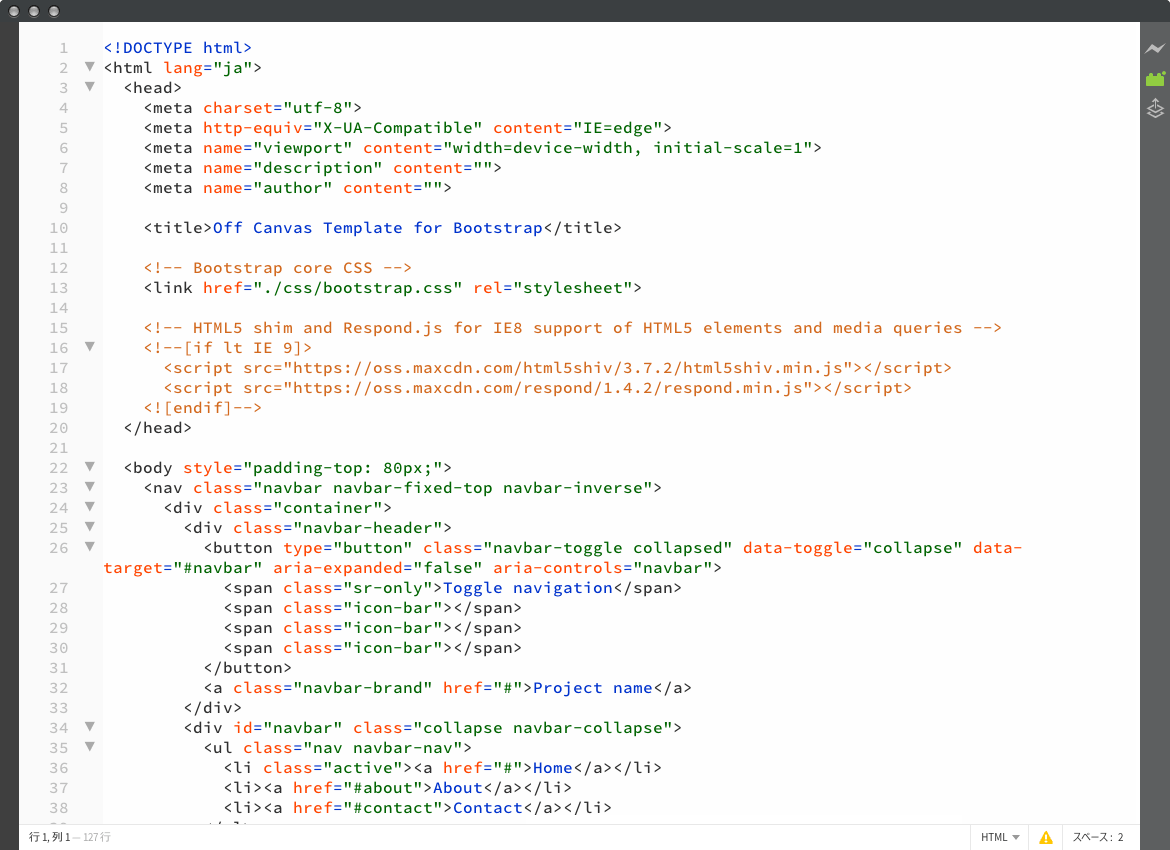
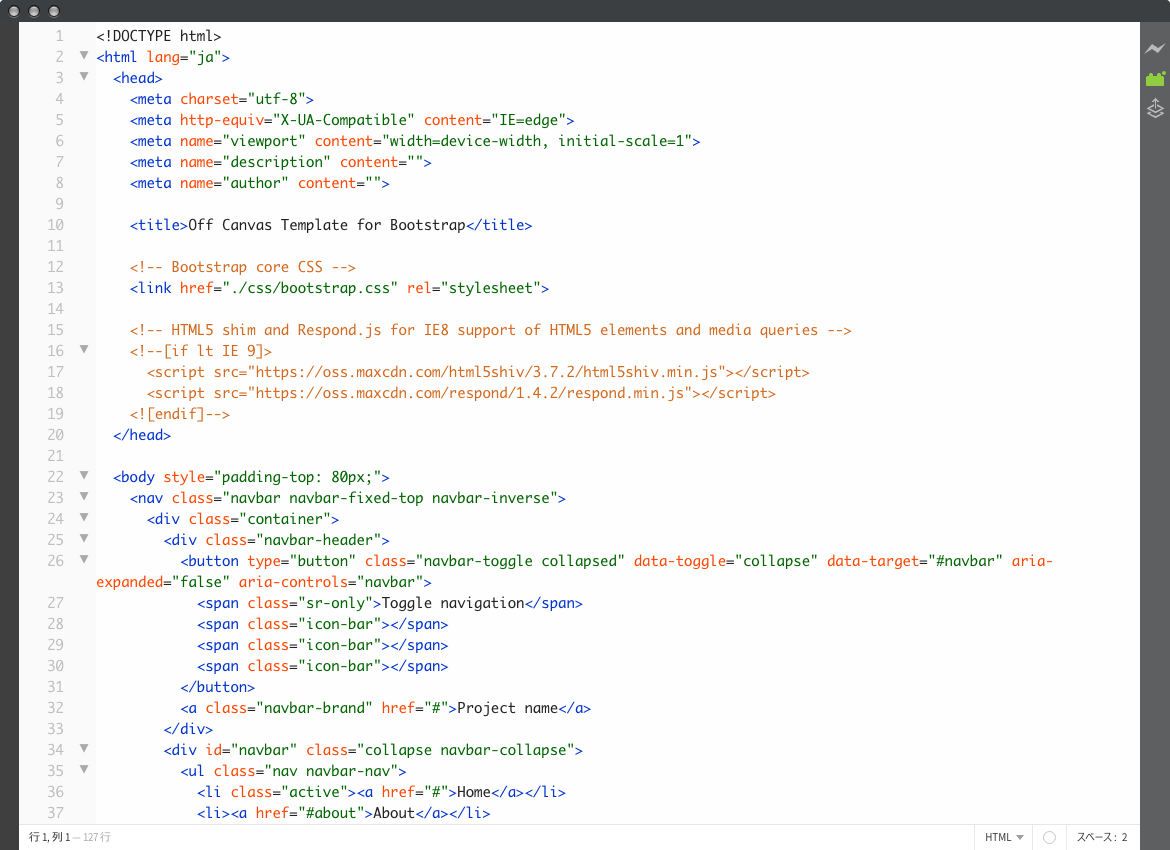
Brackets Theme Simple

diff --git a/theme.less b/theme.less
@@ -3,151 +3,170 @@
 // Copyright (c) 2015 Mignon Style
 // https://github.com/mignonstyle/brackets-theme-simple
 
-
 /* Define some variables used in multiple places */
 
 @background: #fefefe;
-@foreground: #0033cc;
-
-@comment:    #d2691e;
-
-@lemon:      #ffff62;
-@yellowC:    #ffd700;
-@apricot:    #f6a644;
-@orangeC:    #ff4500;
-@carrot:     #ff6600;
-@brownC:     #d2691e;
-@redC:       #dc322f;
-@pinkC:      #ff1493;
-@purpleC:    #b77fdb;
-@blueC:      #6c71c4;
-@greenC:     #006400;
-@aquaC:      #afeeee;
-@skyblueC:   #e0ffff;
-@white:      #fff;
-@ltgrey:     #cfcfcf;
-@greyC:      #767676;
-@dkgrey:     #2f2f2f;
-@black:      #000;
-
+@foreground: #212121;
 
 /* Code Styling */
+.CodeMirror {
+	line-height: 1.5;
+}
 
 .CodeMirror, .CodeMirror-scroll {
-  background-color: @background;
-  color: @foreground;
+	background-color: @background;
+	color: @foreground;
 }
 
 .CodeMirror-focused .CodeMirror-activeline-background {
-  background: @skyblueC;
+	background: #e0ffff;
 }
 
 .show-line-padding .CodeMirror-focused .CodeMirror-activeline-background {
-  box-shadow: inset 15px 0 0 0 @black;
+	box-shadow: inset 15px 0 0 0 #000;
 }
 
 .CodeMirror-focused .CodeMirror-activeline {
-  .CodeMirror-gutter-elt {
-    background: rgba(0, 0, 0, 0.2);
-    color: @white;
-  }
-  .inline-widget .CodeMirror-gutter-elt {
-    color: @greyC;
-  }
+	.CodeMirror-gutter-elt {
+		background: rgba(0, 0, 0, 0.2);
+		color: #fff;
+	}
+	.inline-widget .CodeMirror-gutter-elt {
+		color: #767676;
+	}
 }
 
-.cm-atom, .cm-string, .cm-string-2, .cm-hr {color: @greenC;}
-.cm-number, .cm-attribute, .cm-plus {color: @orangeC;}
-.cm-def, .cm-property {color: @pinkC;}
-.cm-variable, .cm-variable-2, .cm-variable-3, .cm-operator, .cm-meta, .cm-bracket {color: @foreground;}
-.cm-comment {color: @comment;}
-.cm-error, .cm-minus {color: @redC;}
-.cm-header {color: @carrot;}
-.cm-link {color: @purpleC; text-decoration: none;}
-.cm-rangeinfo {color: @blueC;}
-.cm-keyword, .cm-qualifier, .cm-builtin, .cm-tag, .cm-quote {color: @dkgrey;}
+// Comments
+.cm-comment {color: #d2691e;}
 
+// Function names and property values and Quotes
+.cm-atom,
+.cm-string,
+.cm-string-2,
+.cm-hr {color: #006400;}
+
+// Numbers
+.cm-number {color: #ff0000}
+
+// HTML attributes (id, class)
+.cm-attribute,
+.cm-plus {color: #ff4500;}
+
+// @include and CSS Properties
+.cm-def,
+.cm-property {color: #ff1493;}
+
+// Functions and variables and pseudo class of CSS
+.cm-variable,
+.cm-variable-2,
+.cm-variable-3 {color: #0070b5;}
+
+// operator and meta
+// 1.operator of JavaScript
+// 2.PHP start tag (meta)
+// 3.Document Type Definition (bracket)
+.cm-operator,
+.cm-meta,
+.cm-bracket {color: @foreground;}
+
+.cm-error, .cm-minus {color: #dc322f;}
+.cm-header {color: #ff6600;}
+.cm-link {color: #b77fdb; text-decoration: none;}
+.cm-rangeinfo {color: #6c71c4;}
+
+.cm-keyword {color: #0033cc;}
+.cm-tag {color: #0033cc}
+
+.cm-builtin {color: #009dff}
+.cm-quote {color: #009dff}
+
+// CSS selector
+.cm-qualifier {color: #2f2f2f;}
 
 /* Extra CSS */
-
 .CodeMirror-searching {
-  background-color: @yellowC;
-  &.searching-current-match {
-    background-color: @apricot;
-  }
+	background-color: #ffd700;
+		&.searching-current-match {
+		background-color: #f6a644;
+	}
 }
 
+// Cursor
 .CodeMirror-cursor {
-  border-left: 1px solid @ltgrey !important;
+	border-left: 1px solid #cfcfcf !important;
 }
 
+// Gutter
 .CodeMirror-gutters {
-  background-color: darken(@white, 2%);
-  border-right: none;
+	background-color: darken(#fff, 2%);
+	border-right: none;
 }
 
+// Gutter line number
 .CodeMirror-linenumber {
-  color: darken(@white, 25%);
+	color: darken(#fff, 25%);
 }
 
+// Selected text
 .CodeMirror .CodeMirror-selected {
-  background: @lemon;
-}
-.CodeMirror-focused .CodeMirror-selected {
-  background: @skyblueC;
+	background: #ffff62;
 }
 
-.CodeMirror-matchingbracket, .CodeMirror-matchingtag {
-  /* Ensure visibility against gray inline editor background */
-  background-color: @aquaC;
-  color: @foreground !important;
+.CodeMirror-focused .CodeMirror-selected {
+	background: #e0ffff;
+}
+
+// Matching selected
+.CodeMirror-matchingbracket,
+.CodeMirror-matchingtag {
+	background-color: #afeeee;
+	color: @foreground !important;
 }
 
 .CodeMirror-overwrite .CodeMirror-cursor {
-  border-left: none !important;
-  border-bottom: 1px solid @white;
+	border-left: none !important;
+	border-bottom: 1px solid #fff;
 }
 
 /* CodeMirror */
-
 .CodeMirror {
-  .CodeMirror {
-    background: transparent;
-  }
+	.CodeMirror {
+		background: transparent;
+	}
 
-  .CodeMirror .CodeMirror-gutters {
-    background: transparent;
-    border-right: none;
-  }
+	.CodeMirror .CodeMirror-gutters {
+		background: transparent;
+		border-right: none;
+	}
 
-  .CodeMirror .CodeMirror-activeline-background {
-    background: transparent;
-  }
+	.CodeMirror .CodeMirror-activeline-background {
+		background: transparent;
+	}
 
-  .CodeMirror .CodeMirror-activeline .CodeMirror-gutter-elt {
-    background: @black;
-    color: @ltgrey;
-  }
+	.CodeMirror .CodeMirror-activeline .CodeMirror-gutter-elt {
+		background: #000;
+		color: #cfcfcf;
+	}
 
-  .CodeMirror-focused .CodeMirror-activeline-background {
-    background: @dkgrey;
-  }
+	.CodeMirror-focused .CodeMirror-activeline-background {
+		background: #2f2f2f;
+	}
 
-  .CodeMirror-focused .CodeMirror-activeline {
-    .CodeMirror-gutter-elt {
-      background: rgba(0, 0, 0, 0.2);
-      color: @white;
-    }
-  }
+	// Gutter active line
+	.CodeMirror-focused .CodeMirror-activeline {
+		.CodeMirror-gutter-elt {
+			background: rgba(0, 0, 0, 0.2);
+			color: #fff;
+		}
+	}
 }
 
 /* Non-editor styling */
-
 .image-view,
 .not-editor {
-  background-color: @background;
+	background-color: @background;
 }
 
 .view-pane .image-view {
-  color: @foreground;
+	color: @foreground;
 }

diff --git a/README.md b/README.md
@@ -13,5 +13,9 @@ Simple Light theme for [Brackets](http://brackets.io/).
 ## PHP
 ![PHP Screenshot](preview/php.png)
 
+## Changelog
+Ver 1.1.0 Change the color of the variables etc.
+Ver 1.0.0 Initial release.
+
 ## Copyright and License
 Copyright (c) 2015 [Mignon Style](http://mignonstyle.com/). Released under the [MIT License](LICENSE).
